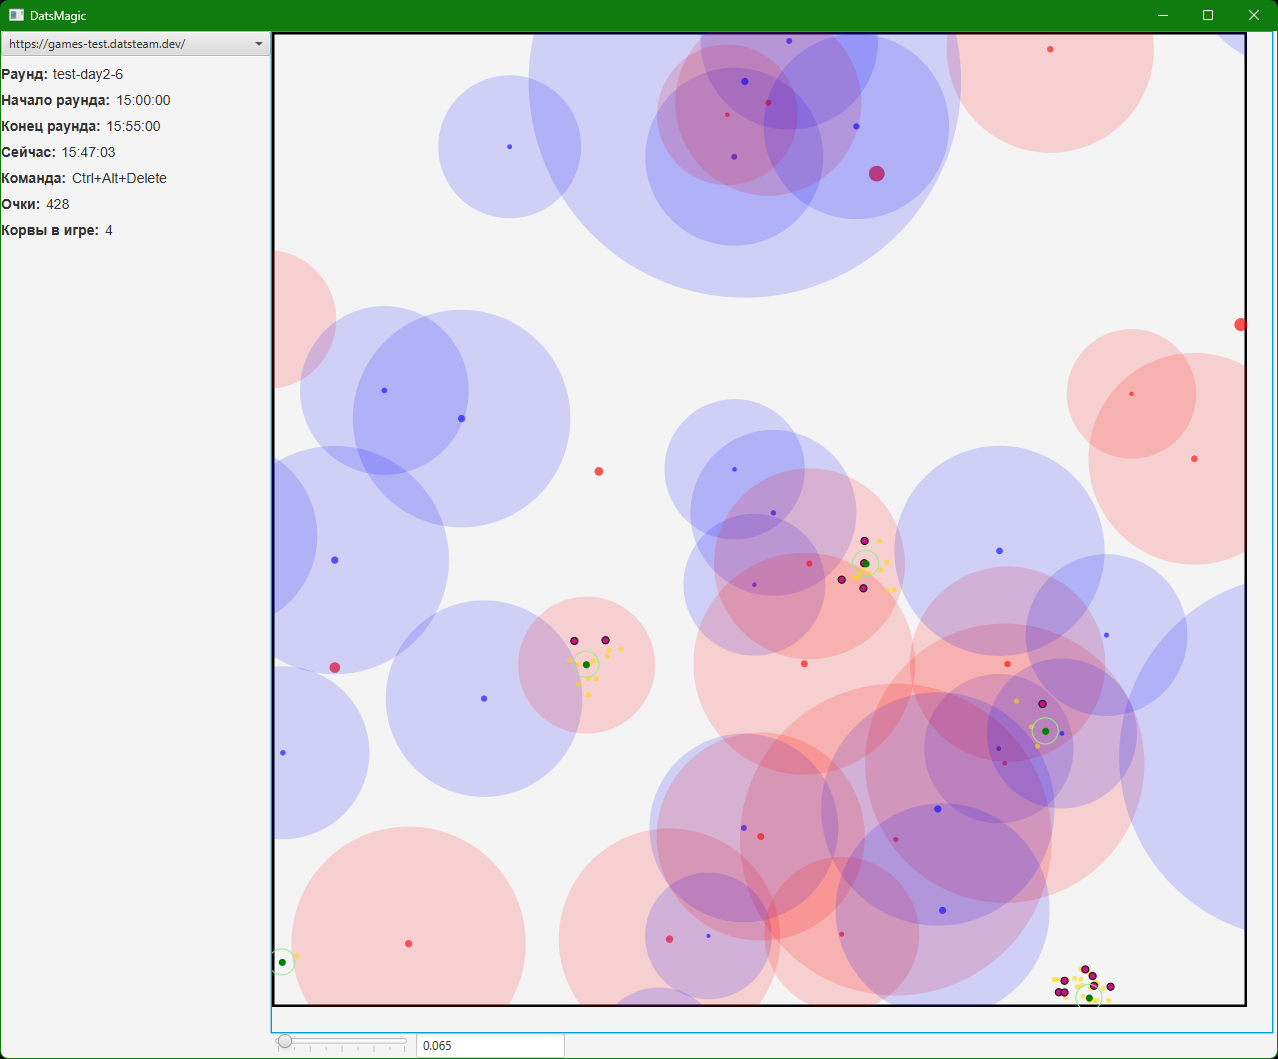
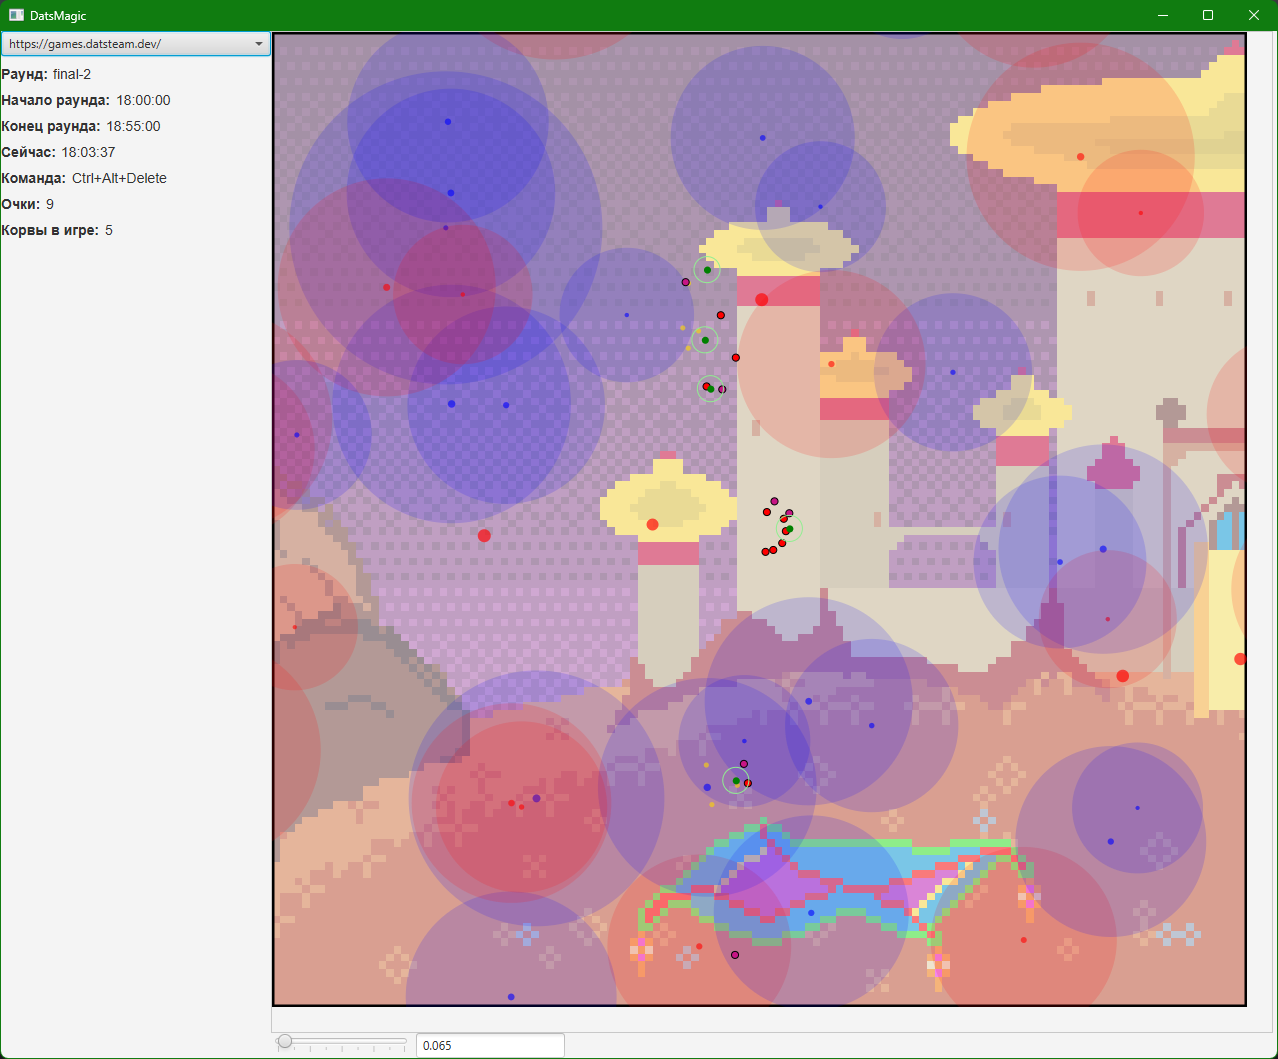
Final version

diff --git a/src/main/java/org/system_false/dats_magic/GameDraw.java b/src/main/java/org/system_false/dats_magic/GameDraw.java
@@ -5,10 +5,12 @@ import javafx.beans.property.DoubleProperty;
 import javafx.beans.property.SimpleBooleanProperty;
 import javafx.beans.property.SimpleDoubleProperty;
 import javafx.scene.canvas.Canvas;
+import javafx.scene.image.Image;
 import javafx.scene.paint.Color;
 import org.system_false.dats_magic.json.*;
 
 import java.util.List;
+import java.util.Objects;
 
 public class GameDraw {
     private final Canvas map;
@@ -42,7 +44,14 @@ public class GameDraw {
         //очистка карты
         g.clearRect(0, 0, map.getWidth(), map.getHeight());
 
+        //задний фон
+        g.setImageSmoothing(false);
+        g.setGlobalAlpha(0.5);
+        g.drawImage(new Image(Objects.toString(getClass().getResource("Carpet.png"))), 0, 0, map.getWidth(),
+                map.getHeight());
+
         //отрисовка границ игрового поля
+        g.setGlobalAlpha(1);
         g.setStroke(Color.BLACK);
         g.setLineWidth(5);
         g.moveTo(0, 0);

diff --git a/src/main/java/org/system_false/dats_magic/DatsMagicController.java b/src/main/java/org/system_false/dats_magic/DatsMagicController.java
@@ -129,7 +129,7 @@ public class DatsMagicController implements Initializable {
                 if (round.getStartAt().after(now) && now.before(round.getEndAt())) {
                     if (currentRound != i) {
                         RequestManager.enqueueRequest(GamePlay.EMPTY_REQUEST, game);
-                        RequestManager.start(400, TimeUnit.MILLISECONDS);
+                        RequestManager.start(500, TimeUnit.MILLISECONDS);
                     }
                     currentRound = i;
                     roundSet = true;
@@ -141,6 +141,6 @@ public class DatsMagicController implements Initializable {
             }
             Platform.runLater(this::updateUI);
         }, 0, 1, TimeUnit.SECONDS);
-        RequestManager.start(400, TimeUnit.MILLISECONDS);
+        RequestManager.start(500, TimeUnit.MILLISECONDS);
     }
 }
